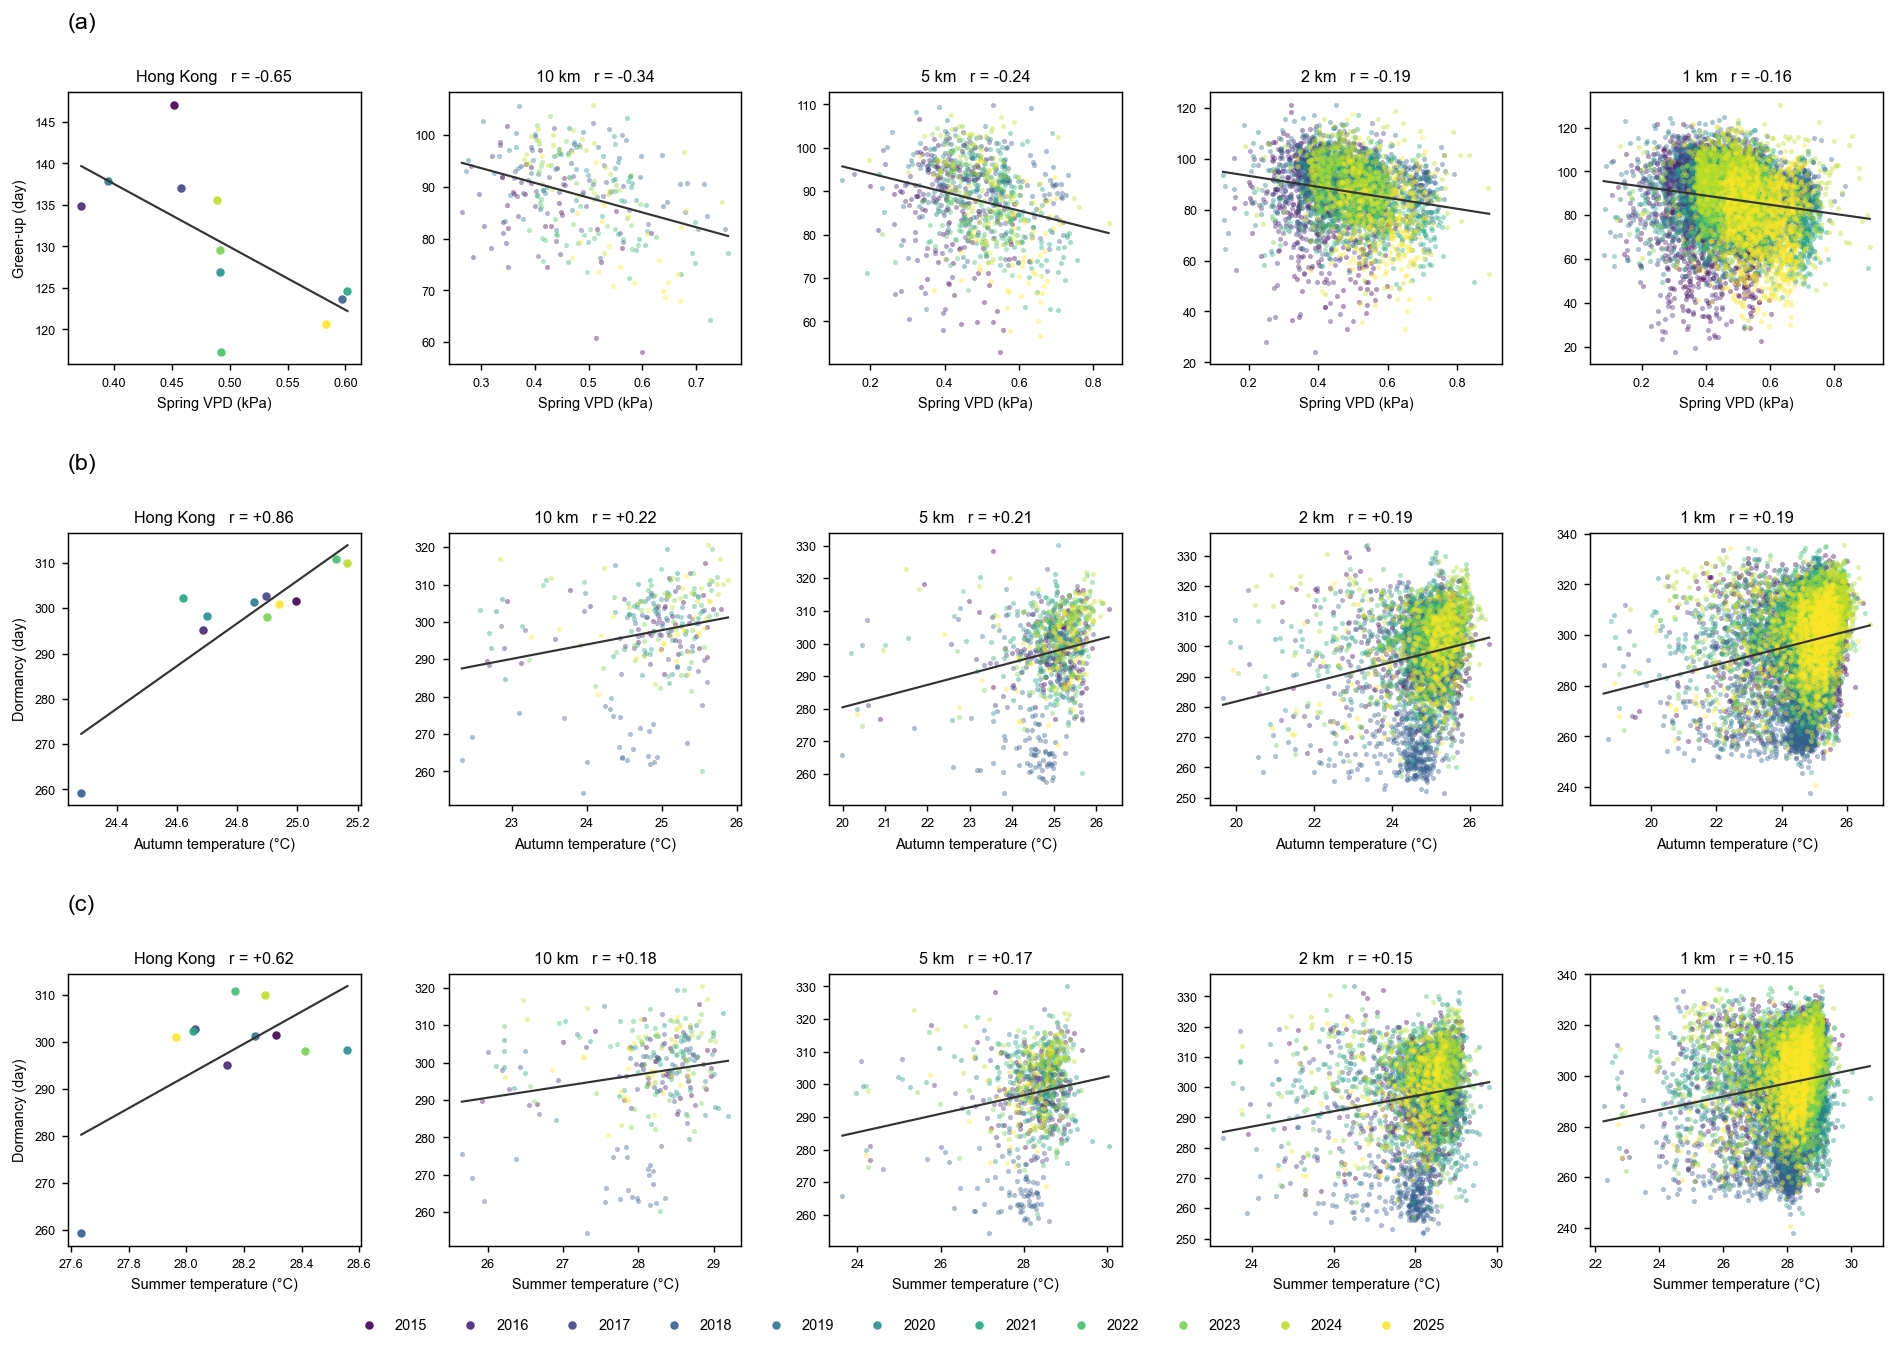
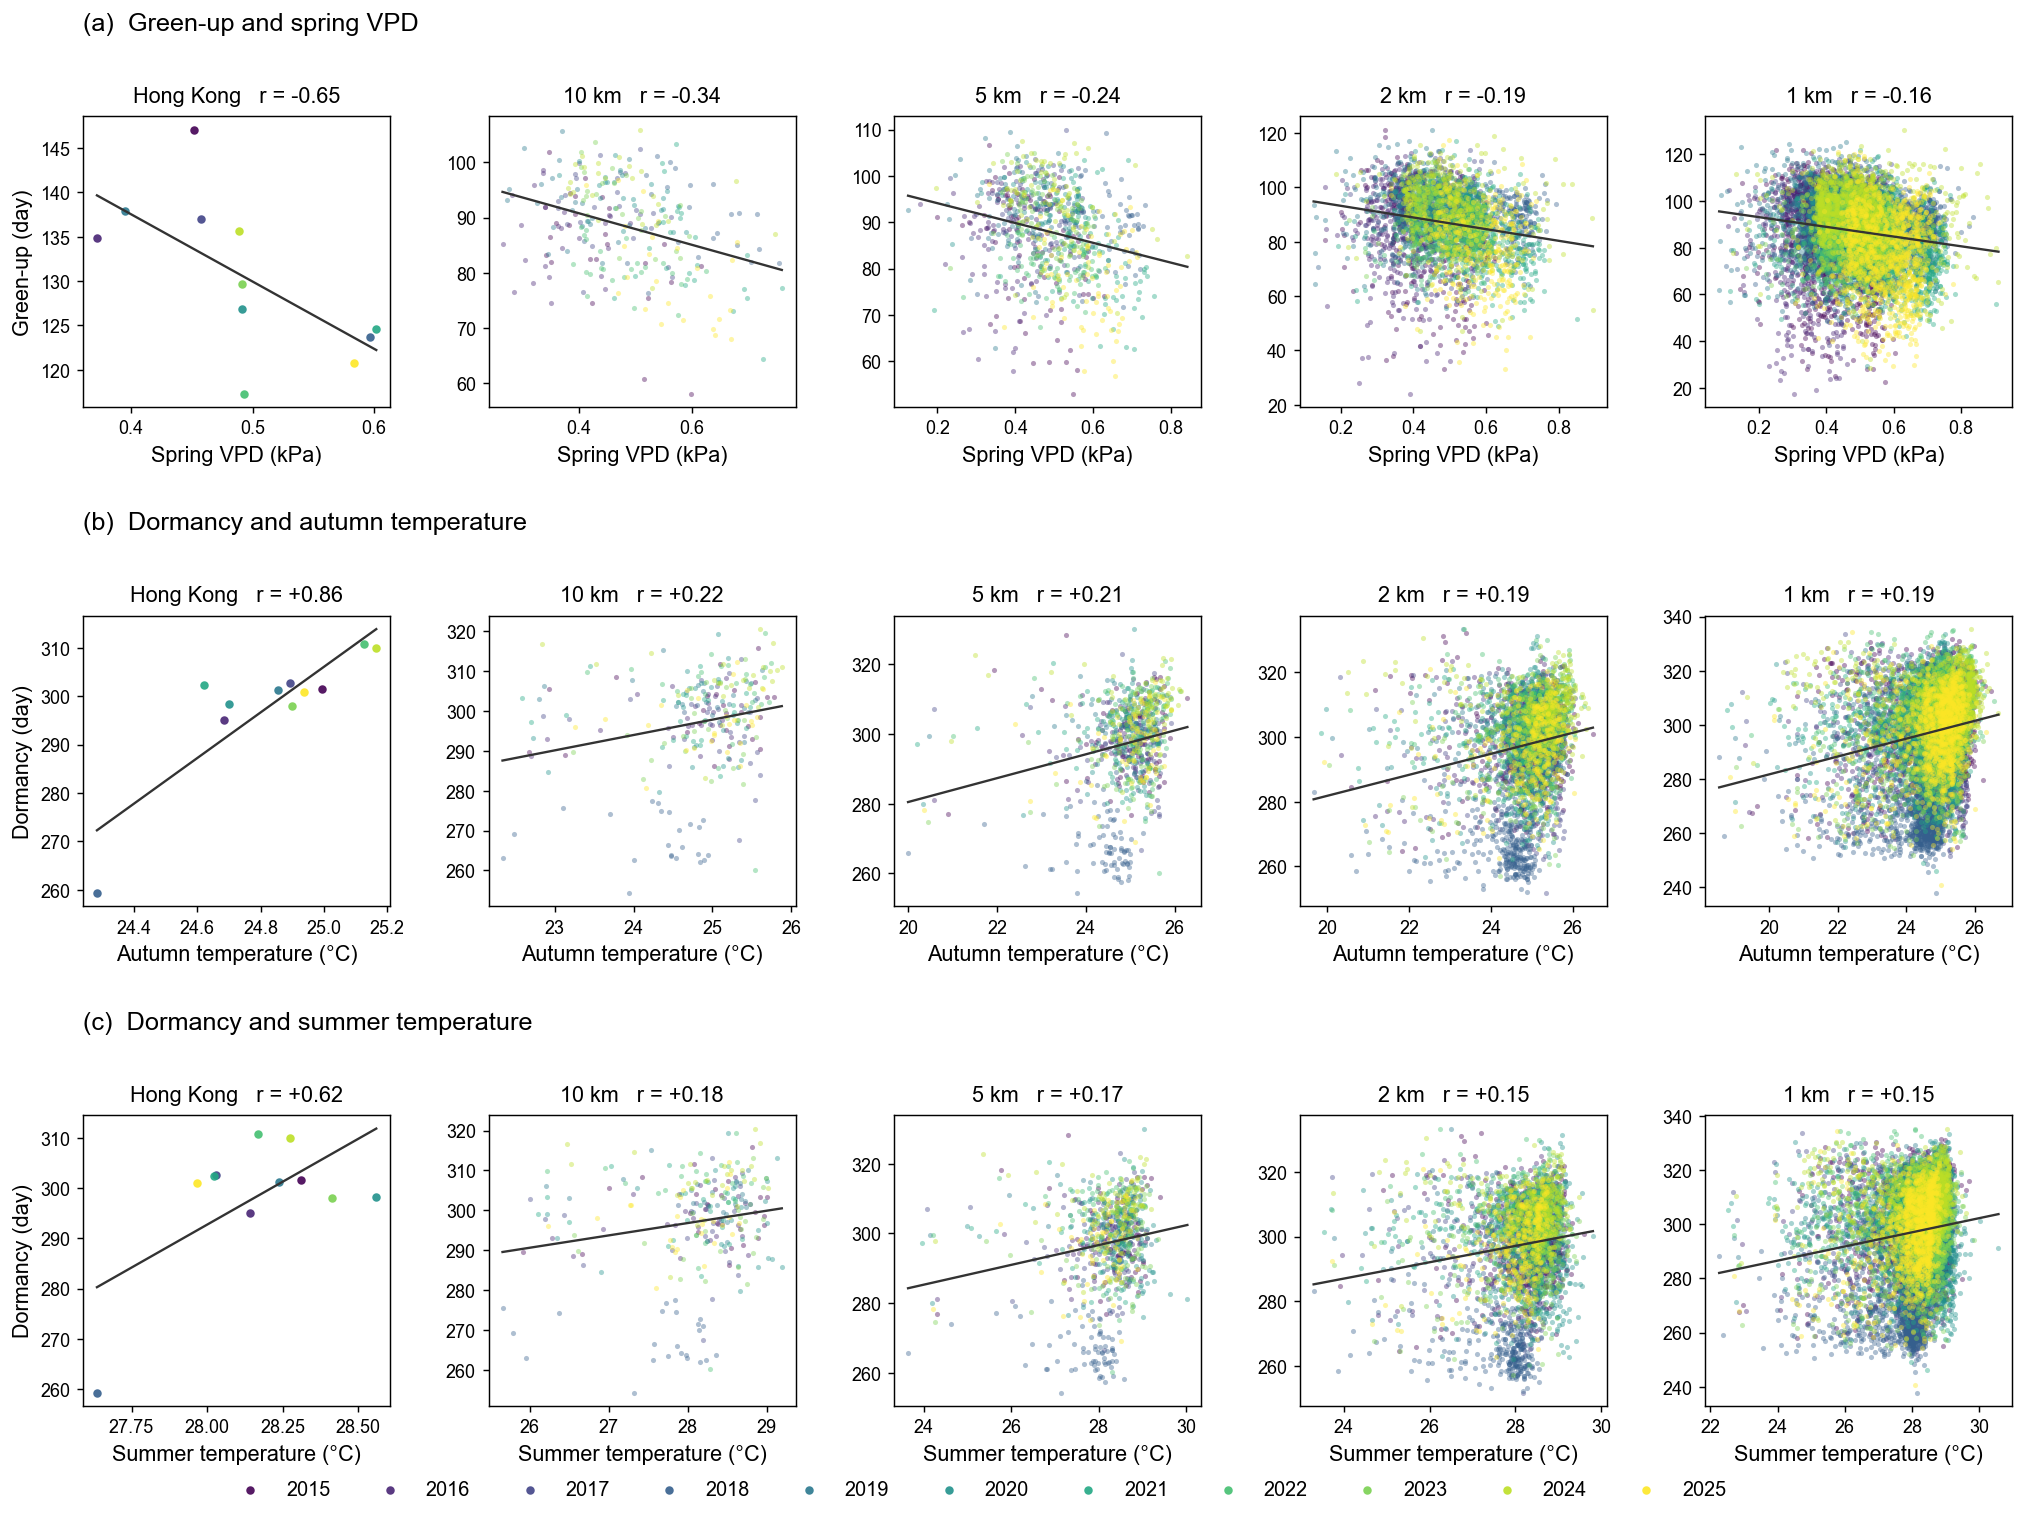
Name the three scatter rows and enlarge the figure text.

diff --git a/plot_driver_grid_scales.py b/plot_driver_grid_scales.py
@@ -167,14 +167,18 @@ def corr(x: np.ndarray, y: np.ndarray) -> tuple[float, float, int]:
 def draw(bundles: dict, path: Path) -> None:
     from plot_style import arial, use_arial
     use_arial()
-    font = arial(9)
-    letter_font = arial(13)
+    font = arial(12)
+    letter_font = arial(14)
     columns = [("hk", "Hong Kong")] + [(grid, f"{grid // 1000} km") for grid in GRIDS]
     ylabels = ("Green-up (day)", "Dormancy (day)", "Dormancy (day)")
     xlabels = ("Spring VPD (kPa)", "Autumn temperature (°C)", "Summer temperature (°C)")
-    letters = ("a", "b", "c")
-    fig, axes = plt.subplots(len(PAIRS), len(columns), figsize=(15.6, 10.2), dpi=130)
-    fig.subplots_adjust(left=0.09, right=0.985, top=0.95, bottom=0.08, hspace=0.62, wspace=0.30)
+    captions = (
+        "(a)  Green-up and spring VPD",
+        "(b)  Dormancy and autumn temperature",
+        "(c)  Dormancy and summer temperature",
+    )
+    fig, axes = plt.subplots(len(PAIRS), len(columns), figsize=(16.4, 11.4), dpi=130)
+    fig.subplots_adjust(left=0.08, right=0.985, top=0.95, bottom=0.08, hspace=0.72, wspace=0.32)
     year_list = None
     for row, (xname, yname, title, xlabel, ylabel) in enumerate(PAIRS):
         del title, xlabel, ylabel
@@ -197,22 +201,22 @@ def draw(bundles: dict, path: Path) -> None:
             if x.size >= 2 and np.std(x) > 0:
                 slope, intercept = np.polyfit(x, y, 1)
                 xs = np.linspace(np.min(x), np.max(x), 40)
-                ax.plot(xs, intercept + slope * xs, color="#333333", lw=1.2, zorder=3)
-            ax.set_title(f"{label}   r = {pack['r']:+.2f}", fontproperties=font, fontsize=9, color="black")
-            ax.set_xlabel(xlabels[row], fontproperties=font, fontsize=8, color="black")
+                ax.plot(xs, intercept + slope * xs, color="#333333", lw=1.3, zorder=3)
+            ax.set_title(f"{label}   r = {pack['r']:+.2f}", fontproperties=font, fontsize=12, color="black", pad=8)
+            ax.set_xlabel(xlabels[row], fontproperties=font, fontsize=12, color="black")
             if col == 0:
-                ax.set_ylabel(ylabels[row], fontproperties=font, fontsize=8, color="black")
+                ax.set_ylabel(ylabels[row], fontproperties=font, fontsize=12, color="black")
                 ax.text(
-                    0.0, 1.22, f"({letters[row]})",
+                    0.0, 1.28, captions[row],
                     transform=ax.transAxes,
                     ha="left", va="bottom",
                     fontproperties=letter_font,
                     color="black",
                     clip_on=False,
                 )
-            ax.tick_params(labelsize=7, colors="black")
+            ax.tick_params(labelsize=10, colors="black")
     handles, labels = axes[0, 0].get_legend_handles_labels()
-    fig.legend(handles, labels, loc="lower center", ncol=11, frameon=False, fontsize=8, bbox_to_anchor=(0.5, 0.005))
+    fig.legend(handles, labels, loc="lower center", ncol=11, frameon=False, prop=arial(11), bbox_to_anchor=(0.5, 0.005))
     path.parent.mkdir(parents=True, exist_ok=True)
     fig.savefig(path, dpi=130, bbox_inches="tight", facecolor="white")
     plt.close(fig)
